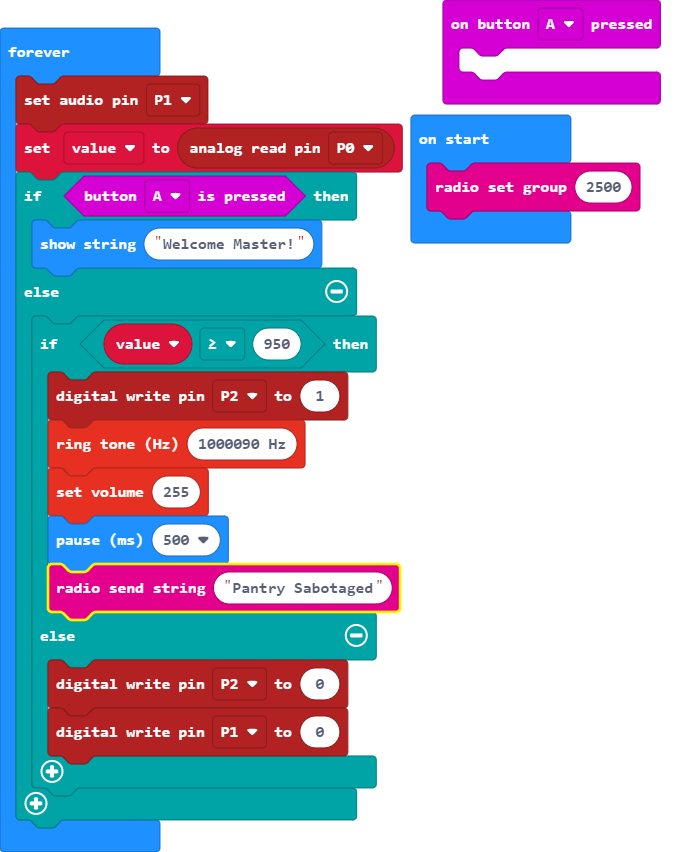
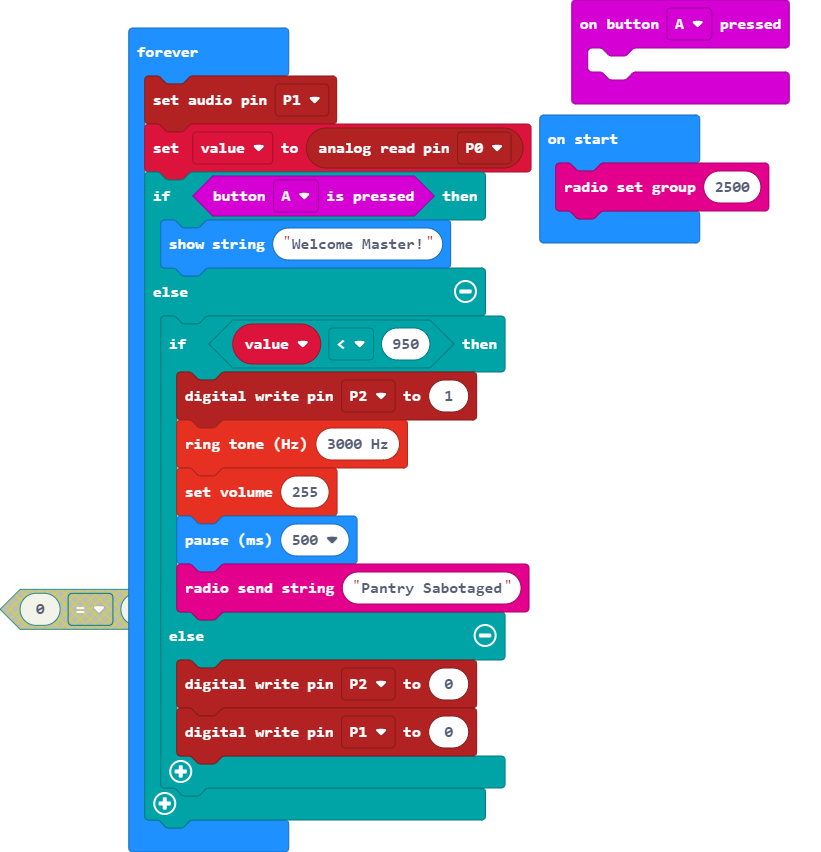
Update main.blocks, main.ts

diff --git a/main.ts b/main.ts
@@ -9,9 +9,9 @@ basic.forever(function () {
     if (input.buttonIsPressed(Button.A)) {
         basic.showString("Welcome Master!")
     } else {
-        if (value >= 950) {
+        if (value < 950) {
             pins.digitalWritePin(DigitalPin.P2, 1)
-            music.ringTone(1000090)
+            music.ringTone(3000)
             music.setVolume(255)
             basic.pause(500)
             radio.sendString("Pantry Sabotaged")
